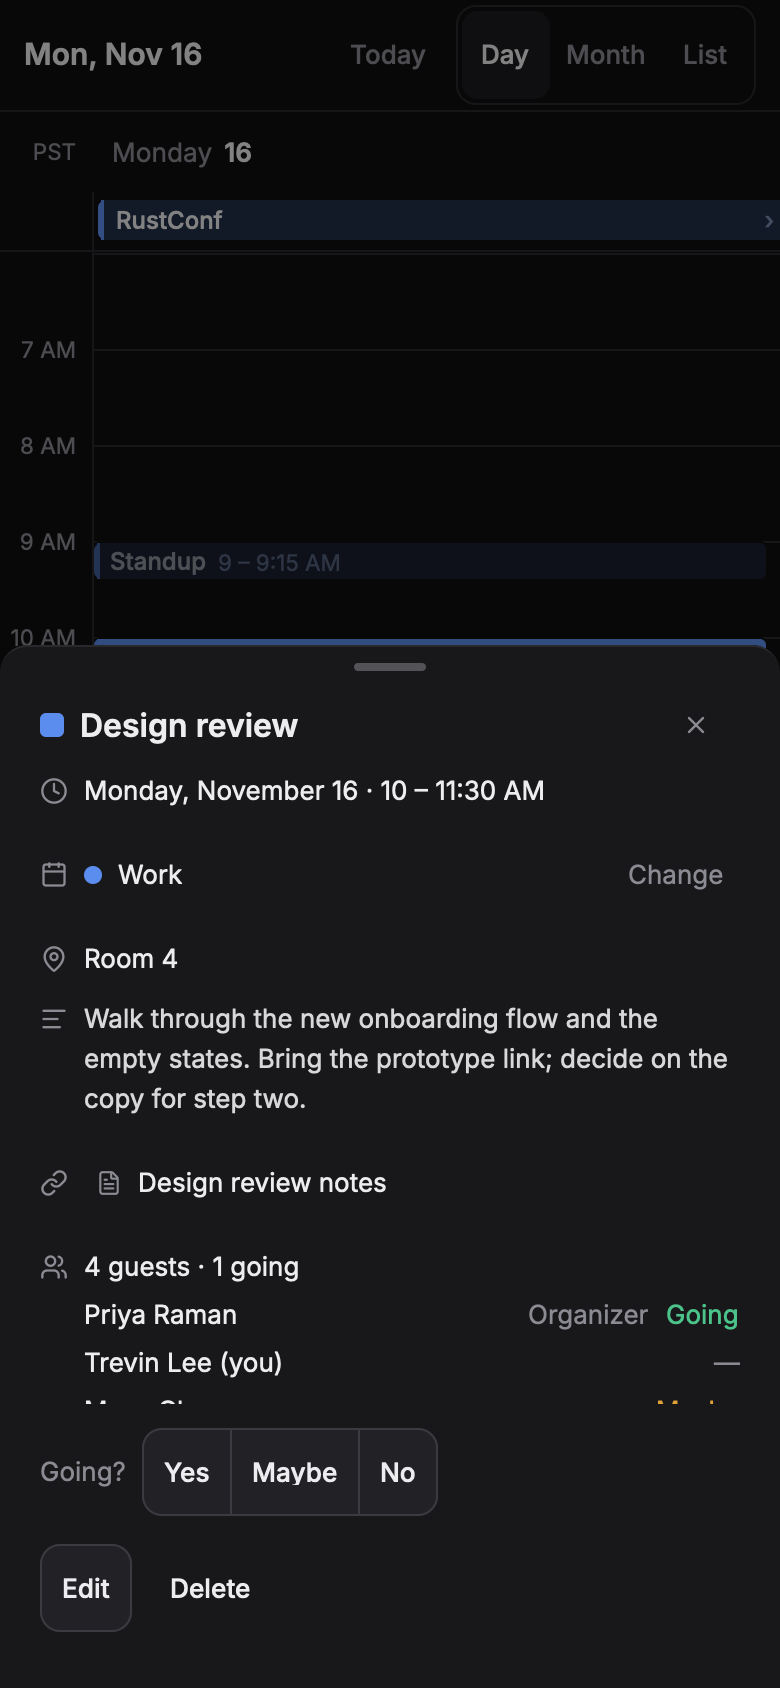
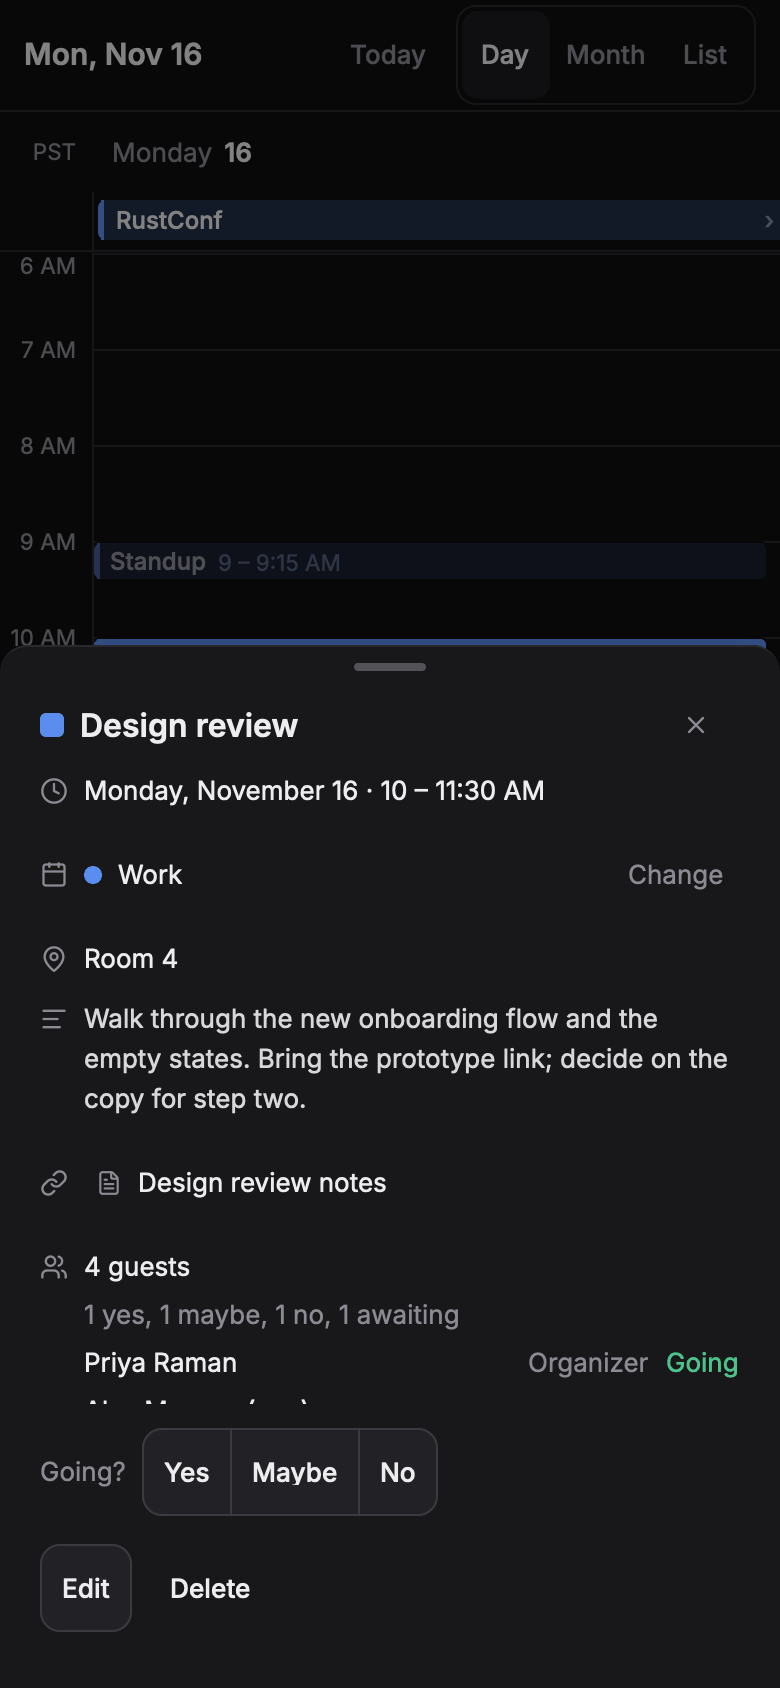
docs: add screenshots and install steps to every crate (#216)
The root README shows one picture per crate with a line on what it does, then the
requirements (Rust 1.100.0 from rust-toolchain.toml, macOS, gpui-pre =0.3.12), the git
dependency to install from, and how to run each example. GPUI Kit is no longer mentioned
as a dependency, since no crate uses it.

gpui-core and gpui-flow get their first screenshots, drawn offscreen by their examples'
shots feature and saved at 1600 px wide in 256 colours (about 100 KB each). gpui-flow's
README gains a usage example, compiled as a doctest like the other crates' READMEs.
gpui-core's install line is pinned to a rev.

The calendar demo's own attendee is now a made-up name, and its two panel pictures are
drawn again.

diff --git a/gpui-calendar/examples/calendar.rs b/gpui-calendar/examples/calendar.rs
@@ -316,7 +316,7 @@ fn sample_week(monday: NaiveDate) -> Vec<Event> {
         );
         design.attendees = vec![
             Attendee::new("Priya Raman", Response::Accepted).organizer(true),
-            Attendee::new("Trevin Lee", Response::NeedsAction).me(true),
+            Attendee::new("Alex Morgan", Response::NeedsAction).me(true),
             Attendee::new("Maya Chen", Response::Tentative),
             Attendee::new("Jordan Alvarez-Whitfield", Response::Declined),
         ];

diff --git a/gpui-flow/src/lib.rs b/gpui-flow/src/lib.rs
@@ -65,6 +65,11 @@ pub use theme::{FlowColors, Palette, Pencil};
 pub use tree::{Layout, Tree, TreeDirection, TreeLayout};
 pub use types::*;
 
+// The README's example, compiled as a doctest.
+#[cfg(doctest)]
+#[doc = include_str!("../README.md")]
+struct ReadmeDoctests;
+
 /// Sets the flow up: its key bindings. Call once, after `gpui_core::init`.
 pub fn init(cx: &mut gpui::App) {
     bind_keys(cx);

diff --git a/README.md b/README.md
@@ -1,51 +1,116 @@
 # gpui-essentials
 
 Components for [GPUI](https://www.gpui.rs) apps, one crate per folder, built and tested
-together so they link one GPUI.
-
-| Crate | What it is |
-|---|---|
-| [gpui-blocks](gpui-blocks) | A Notion-like block editor: Markdown documents with a slash menu, drag handles, callouts, toggles and widget blocks |
-| [gpui-calendar](gpui-calendar) | Day, week, N-day, month and agenda views with a time grid, drag to create, move and resize, time zones, touch and a compact phone layout |
-| [gpui-chatwidgets](gpui-chatwidgets) | Draws AI agents' [OpenUI](https://openui.com) cards (cards, tables, charts, forms, buttons) natively, with a parser that builds without GPUI |
-| [gpui-core](gpui-core) | The components the others build on (theme, root, buttons, inputs, markdown text), drawn in the host's theme; replacing GPUI Kit, in progress |
-| [gpui-flow](gpui-flow) | A node-and-edge editor in the manner of React Flow |
-| [gpui-tables](gpui-tables) | Notion-style databases: typed properties, saved table, board and list views, filters, sorts and groups, with a model and engine that build without GPUI |
+together so they link one GPUI. Each draws in the host's theme through gpui-core and works with
+the keyboard, the mouse and touch.
 
 Each folder has its own README with what the crate does, how to use it, its example window and
 its tests.
 
-## Use them
+## The crates
 
-They need Rust 1.100 or newer and draw through Zed's GPUI, published as `gpui-pre` 0.3.12 and
-pinned exactly. gpui-calendar, gpui-chatwidgets, gpui-flow and gpui-tables are built on
-gpui-core alone; gpui-blocks still uses [GPUI Kit](https://github.com/longbridge/gpui-kit)
-`=0.9.1` (which pins the same GPUI) for what gpui-core doesn't have yet. Your app must use the
-same versions, or two GPUIs would be linked. Take any of them from this repository by name,
-pinned to one commit, the same commit for all of them:
+### [gpui-blocks](gpui-blocks)
+
+A Notion-like block editor: Markdown documents with a slash menu, drag handles, callouts,
+toggles, tables, find and replace, and widget blocks the host draws.
+
+![A document in gpui-blocks: headings, a link to another page, an embedded board, a to-do list and a numbered list](gpui-blocks/docs/doc.png)
+
+### [gpui-calendar](gpui-calendar)
+
+Day, week, N-day, month and agenda views with a time grid; drag to create, move and resize;
+time zones, recurring events, an event panel and a compact phone layout.
+
+![A week in gpui-calendar: all-day spans, overlapping events side by side, and the line at the current time](gpui-calendar/docs/week.png)
+
+### [gpui-chatwidgets](gpui-chatwidgets)
+
+Draws AI agents' [OpenUI](https://openui.com) cards (cards, tables, charts, forms, buttons)
+natively, with a parser that builds without GPUI.
+
+<img src="gpui-chatwidgets/docs/cards-kpi.png" width="520" alt="A card of account metrics: snippet cards with icons, values and trends, and a product card with a bar chart">
+
+### [gpui-core](gpui-core)
+
+The components the others build on: theme, window root, buttons, inputs, menus, popovers,
+sheets, date pickers and Markdown text, with an optional code highlighter.
+
+![gpui-core's gallery: buttons in four sizes and five variants, a segmented control, toggles, a slider and an open menu](gpui-core/docs/gallery.png)
+
+### [gpui-flow](gpui-flow)
+
+A node-and-edge editor in the manner of React Flow: custom nodes, edges with labels, groups,
+shapes and ink, a minimap and controls, and JSON in and out.
+
+![A flowchart in gpui-flow: shaped nodes, labelled edges, a group, pen strokes, the controls and the minimap](gpui-flow/docs/whiteboard.png)
+
+### [gpui-tables](gpui-tables)
+
+Notion-style databases: typed properties, saved table, board and list views, filters, sorts and
+groups, with a model and engine that build without GPUI.
+
+![The People database as a table: names, companies, roles, stages and tags, sorted by name](gpui-tables/docs/table-people.png)
+
+## Requirements
+
+- **Rust 1.100.0**, pinned in [rust-toolchain.toml](rust-toolchain.toml). rustup installs it
+  on the first build here and leaves your default alone. The crates declare
+  `rust-version = "1.100"`.
+- **macOS** to build and run the examples and tests: GPUI draws through Metal. The crates also
+  build for iOS (GPUI's `gpui-pre-ios`) with touch. gpui-chatwidgets' parser and gpui-tables'
+  engine build without GPUI on any platform.
+- **GPUI as `gpui-pre` `=0.3.12`**, a snapshot of Zed's GPUI, pinned exactly. Your app must use
+  the same version, or two GPUIs would be linked. No crate here uses GPUI Kit any more.
+
+## Installation
+
+None of the crates is on crates.io yet. Take them from this repository by name, pinned to one
+commit (the same commit for all of them, since any commit can change an API):
 
 ```toml
 [dependencies]
-gpui-calendar = { git = "https://github.com/trevin-lee/gpui-essentials", rev = "<a commit>" }
-gpui-chatwidgets = { git = "https://github.com/trevin-lee/gpui-essentials", rev = "<a commit>" }
+gpui = { package = "gpui-pre", version = "=0.3.12" }
+gpui-core = { git = "https://github.com/trevin-lee/gpui-essentials", rev = "<rev>" }
+gpui-blocks = { git = "https://github.com/trevin-lee/gpui-essentials", rev = "<rev>" }
+# Any of the others the same way: gpui-calendar, gpui-chatwidgets, gpui-flow, gpui-tables.
+
+# The app's window. Without `font-kit`, GPUI draws no text on macOS.
+gpui_platform = { package = "gpui-pre-platform", version = "=0.3.12", features = ["font-kit"] }
 ```
 
-None of them is on crates.io yet, and any commit can change an API, so pin one. They run on
-macOS and on iOS (GPUI's `gpui-pre-ios`), with touch.
+Replace `<rev>` with a commit hash from this repository's `main`. At startup, call
+`gpui_core::init(cx)`, set a theme with `gpui_core::Theme::set`, and serve gpui-core's icons:
+`gpui_platform::application().with_assets(gpui_core::Icons)`. Each crate's README has a small
+example that compiles (its README is built as a doctest).
+
+## Running the examples
+
+From the repository's root; each opens a window:
+
+```sh
+cargo run --release -p gpui-blocks --example editor       # a sample document
+cargo run --release -p gpui-calendar --example calendar   # a week of sample events
+cargo run --release -p gpui-chatwidgets --example gallery # every card kind
+cargo run -p gpui-core --example gallery                  # every component
+cargo run --release -p gpui-flow --example flow           # the canvas
+cargo run --release -p gpui-tables --example crm          # a CRM: people, companies, interactions
+```
+
+The pictures above were drawn offscreen by the same examples with the `shots` feature, for
+example `cargo run --release -p gpui-calendar --features shots --example calendar -- --shot
+week.png --scene week`; each crate's README lists its scenes.
 
 ## Working here
 
 ```sh
-cargo test -p gpui-calendar                     # one crate
-cargo test --workspace                          # all of them
-cargo run -p gpui-flow --release --example flow # an example window
+cargo test -p gpui-calendar   # one crate
+cargo test --workspace        # all of them
 ```
 
-`rust-toolchain.toml` pins Rust 1.100.0, and rustup installs it on the first build. The examples
-and tests need macOS: GPUI draws through Metal. Each crate has its own CI workflow in
-`.github/workflows`, run on GitHub's macOS runners when its folder, gpui-core (for the crates
-built on it) or the shared files change, and built for the iOS simulator; gpui-chatwidgets'
-parser-only build and gpui-tables' engine-only build are also tested on Linux.
+Each crate has its own CI workflow in `.github/workflows`, run on GitHub's macOS runners when
+its folder, gpui-core (for the crates built on it) or the shared files change, and built for the
+iOS simulator; gpui-chatwidgets' parser-only build and gpui-tables' engine-only build are also
+tested on Linux.
 
 ## History
 
@@ -55,5 +120,6 @@ local one; their histories are kept here, each in its folder. gpui-flow came in 
 ## License
 
 Apache-2.0. See [LICENSE](LICENSE) and [NOTICE](NOTICE), which carries every crate's
-third-party notices: GPUI Kit, the gpui-kit-markdown-editor fork gpui-blocks uses, OpenUI (MIT)
-for gpui-chatwidgets, and the Inter font in the examples.
+third-party notices: GPUI Kit, from which gpui-blocks' engine derives, the
+gpui-kit-markdown-editor fork it is, OpenUI (MIT) for gpui-chatwidgets, and the Inter font in
+the examples.

diff --git a/gpui-flow/README.md b/gpui-flow/README.md
@@ -4,6 +4,8 @@ A node-and-edge editor for [GPUI](https://www.gpui.rs) apps in the manner of
 [React Flow](https://reactflow.dev): a library, and an example window with one of everything.
 It's young: the API can change between commits, so pin one.
 
+![A flowchart on the canvas: shaped nodes (ellipse, parallelogram, diamond, cylinder, hexagon, cloud), labelled step and dotted edges, a group, pen and marker strokes, the controls and the minimap](docs/whiteboard.png)
+
 ## Use it
 
 It needs Rust 1.100 or newer. It uses GPUI as `gpui-pre = "=0.3.12"` and takes its colours
@@ -16,9 +18,59 @@ gpui-core = { git = "https://github.com/trevin-lee/gpui-essentials", rev = "<a c
 gpui-flow = { git = "https://github.com/trevin-lee/gpui-essentials", rev = "<a commit>" }
 ```
 
-Call `gpui_core::init(cx)` and then `gpui_flow::init(cx)` once at startup.
+Call `gpui_core::init(cx)` and then `gpui_flow::init(cx)` once at startup. A `Flow` is an
+entity; put it in a view like any other:
 
-Run the example with `cargo run --release --example flow` from this folder.
+```rust,no_run
+use gpui::*;
+use gpui_core::Theme;
+use gpui_flow::{Edge, Flow, FlowBackground, Node, xy};
+
+struct Canvas {
+    flow: Entity<Flow>,
+}
+
+impl Render for Canvas {
+    fn render(&mut self, _: &mut Window, _: &mut Context<Self>) -> impl IntoElement {
+        div().size_full().child(self.flow.clone())
+    }
+}
+
+fn run(cx: &mut App) {
+    gpui_core::init(cx);
+    gpui_flow::init(cx);
+    Theme::set(Theme::dark(), cx);
+    gpui_core::open_window(WindowOptions::default(), cx, |_, cx| {
+        let flow = cx.new(|cx| {
+            Flow::new(cx)
+                .with_nodes(vec![
+                    Node::new("a", xy(0., 0.)).kind("input").label("Start"),
+                    Node::new("b", xy(100., 120.)).label("Then"),
+                ])
+                .with_edges(vec![Edge::new("a-b", "a", "b")])
+                .with_background(FlowBackground::dots())
+                .with_controls()
+                .with_minimap()
+                .fit_view_on_start()
+        });
+        cx.new(|_| Canvas { flow })
+    })
+    .unwrap();
+}
+```
+
+The app serves gpui-core's icons: `gpui_platform::application().with_assets(gpui_core::Icons)`.
+
+Run the example from the repository's root, which opens a window with one of everything:
+
+```sh
+cargo run --release -p gpui-flow --example flow                 # the canvas
+cargo run --release -p gpui-flow --example flow -- --whiteboard # shapes and ink, as above
+cargo run --release -p gpui-flow --features shots --example flow -- --shot out.png --whiteboard
+```
+
+The last one draws the window offscreen into a PNG without showing it, as the picture above was
+made.
 
 ## How it works
 

diff --git a/gpui-core/README.md b/gpui-core/README.md
@@ -1,8 +1,12 @@
 # gpui-core
 
 Components for [GPUI](https://www.gpui.rs) apps on macOS and iOS, drawn in the host's theme.
-It replaces GPUI Kit in this workspace's crates, covering what they use. See
+It replaced GPUI Kit in this workspace's crates, covering what they use. See
 [PLAN.md](PLAN.md) for the inventory and the build order.
+
+![gpui-core's gallery in the dark theme: buttons in four sizes and five variants, a segmented
+control, toggles, a slider and an open menu with a check, a submenu, a shortcut and a disabled
+item](docs/gallery.png)
 
 - **Theme.** `Theme` holds the colours, fonts and sizes. Its colour names are the web app's
   CSS variables in snake case (`background`, `muted_foreground`, `ring`, …). The host sets it
@@ -89,7 +93,7 @@ Depend on GPUI under its own name, at the same version as this crate:
 ```toml
 [dependencies]
 gpui = { package = "gpui-pre", version = "=0.3.12" }
-gpui-core = { git = "https://github.com/trevin-lee/gpui-essentials" }
+gpui-core = { git = "https://github.com/trevin-lee/gpui-essentials", rev = "<a commit>" }
 # The app's window. Without `font-kit`, GPUI draws no text on macOS (GPUI Kit turned it on
 # for you).
 gpui_platform = { package = "gpui-pre-platform", version = "=0.3.12", features = ["font-kit"] }
@@ -113,6 +117,20 @@ fn run(cx: &mut App) {
     gpui_core::open_window(WindowOptions::default(), cx, |_, cx| cx.new(|_| Hello)).unwrap();
 }
 ```
+
+Components draw Lucide icons from gpui-core's assets, so the app serves them:
+`gpui_platform::application().with_assets(gpui_core::Icons)`.
+
+## The gallery
+
+Every component in one window, from the repository's root:
+
+```sh
+cargo run -p gpui-core --example gallery              # dark; --light for the light theme
+cargo run -p gpui-core --features shots --example gallery -- --shot out.png
+```
+
+`--shot` draws the window offscreen into a PNG without showing it, as the picture above was made.
 
 ## Licence
 
